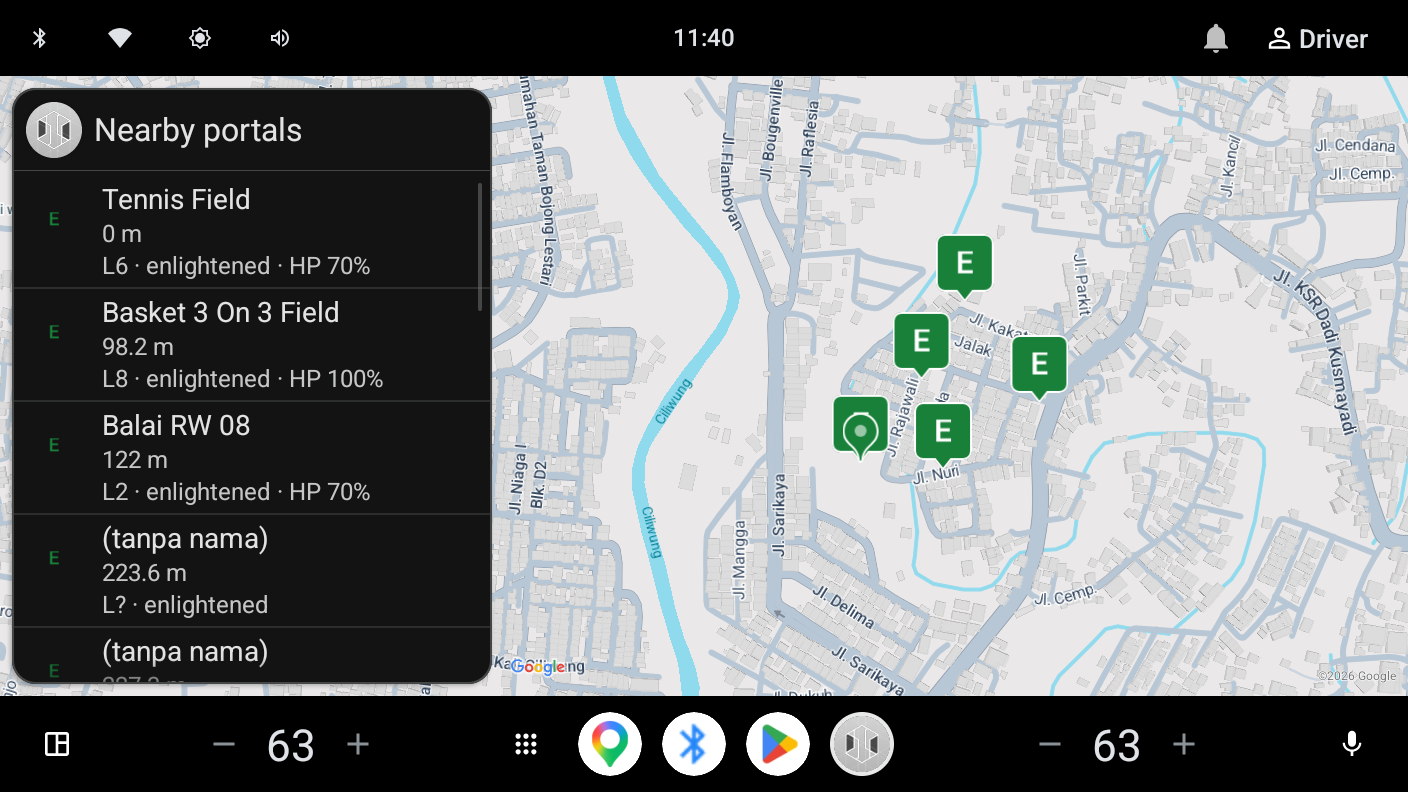
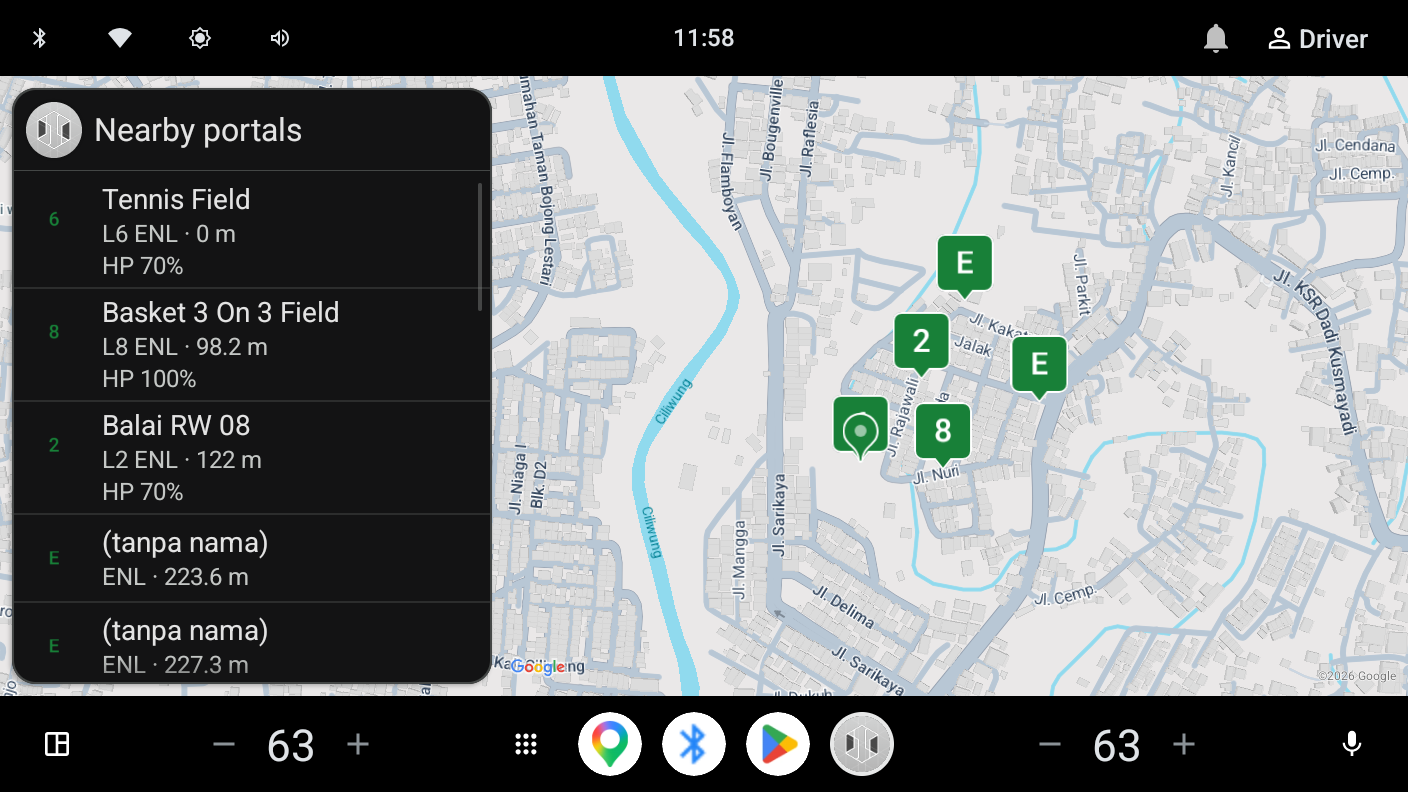
feat(car): level digit inside faction-coloured markers, concise row subtitles
Markers: the host only keeps its faction colour when the marker carries a label, so the label is
now the portal level (the number an agent reads off the map) with the faction letter as fallback,
instead of the faction initial. Verified on the AAOS emulator with real payloads: green balloons
with 8/2/E for Enlightened, blue for Resistance, white with 1 for neutral.

Rows: subtitle is now 'L8 ENL · 98.2 m' (level omitted while IITC has not resolved it), with
'HP 100%' / 'TARGET' only on a second line, so neutral rows drop to two lines instead of three.
Unresolved portal names show 'Unknown Portal' (the contract now lives in the parser; the userscript
sends an empty name instead of inventing one).

Three host constraints found while doing this, all documented in docs/notes/aaos-real-data-demo.md:
- setIcon on a marker => white balloon + black silhouette, colour and level lost. Dropped the bitmap
  badge approach and deleted PortalBadge.kt / ic_portal_neutral.xml with it.
- Rows can't have both a marker and an image (IllegalArgumentException) => no row icons while the
  map markers are kept.
- CarColor.createCustom() is host-optional and ignored once a label is set.

Tests: 20 JVM + 8 JS green.

diff --git a/mobile/app/src/main/java/org/exarhteam/iitc_mobile/car/PortalMapScreen.kt b/mobile/app/src/main/java/org/exarhteam/iitc_mobile/car/PortalMapScreen.kt
@@ -9,7 +9,6 @@ import androidx.car.app.CarContext
 import androidx.car.app.Screen
 import androidx.car.app.model.Action
 import androidx.car.app.model.CarColor
-import androidx.car.app.model.CarIcon
 import androidx.car.app.model.CarLocation
 import androidx.car.app.model.CarText
 import androidx.car.app.model.Distance
@@ -22,12 +21,11 @@ import androidx.car.app.model.PlaceListMapTemplate
 import androidx.car.app.model.PlaceMarker
 import androidx.car.app.model.Row
 import androidx.car.app.model.Template
-import androidx.core.graphics.drawable.IconCompat
 import androidx.lifecycle.DefaultLifecycleObserver
 import androidx.lifecycle.LifecycleOwner
 import androidx.lifecycle.lifecycleScope
 import kotlinx.coroutines.launch
-import org.exarhteam.iitc_mobile.R
+import java.util.Locale
 
 /**
  * Portal map screen on Android Auto (driving mode).
@@ -78,22 +76,15 @@ class PortalMapScreen(carContext: CarContext) : Screen(carContext) {
             shown.forEach { portal ->
                 val distanceM = Geo.distanceMeters(ref.first, ref.second, portal.lat, portal.lng)
 
-                // The portal name is the TITLE (plain text) and the DistanceSpan goes on the first text row.
-                // Previously the span was set on the title and the host rendered the distance as the title —
-                // as a result the portal name vanished from the car screen (found while testing on the AAOS emulator).
-                val distanceText = SpannableString("${distanceM.toInt()} m")
-                distanceText.setSpan(
-                    DistanceSpan.create(Distance.create(distanceM, Distance.UNIT_METERS)),
-                    0,
-                    distanceText.length,
-                    Spanned.SPAN_EXCLUSIVE_EXCLUSIVE
-                )
-
+                // Title = portal name; the distance span lives in the subtitle, never in the title (the
+                // host replaces the span with its own formatted distance and would eat the name).
+                // No setImage() here: the host refuses "Rows can't have both a marker and an image",
+                // and the marker is what makes the map readable — the badge rides inside it instead.
                 addItem(
                     Row.Builder()
                         .setTitle(portal.name)
-                        .addText(CarText.create(distanceText))
-                        .addText(textFor(portal, isTarget = portal.guid in targets))
+                        .addText(subtitleFor(portal, distanceM))
+                        .apply { extraLine(portal, isTarget = portal.guid in targets)?.let { addText(it) } }
                         .setMetadata(Metadata.Builder().setPlace(toPlace(portal)).build())
                         .build()
                 )
@@ -121,23 +112,20 @@ class PortalMapScreen(carContext: CarContext) : Screen(carContext) {
         else snapshot.portals.first().lat to snapshot.portals.first().lng
     }
 
-    private fun toPlace(portal: Portal): Place {
-        val marker = PlaceMarker.Builder().setColor(colorFor(portal.faction))
-        if (portal.faction == Faction.NEUTRAL || portal.faction == Faction.UNKNOWN) {
-            // Minimal marker. Without a label the host still draws a full balloon and puts the list
-            // index in it, so neutral portals get the smallest marker the API offers instead: a dot.
-            marker.setIcon(
-                CarIcon.Builder(IconCompat.createWithResource(carContext, R.drawable.ic_portal_neutral)).build(),
-                PlaceMarker.TYPE_ICON,
+    private fun toPlace(portal: Portal): Place =
+        Place.Builder(CarLocation.create(portal.lat, portal.lng))
+            .setMarker(
+                PlaceMarker.Builder()
+                    // Colour + LABEL, never an icon: with an icon the host draws a plain white balloon
+                    // and masks the bitmap to a black silhouette, so both the faction colour and the
+                    // level would be lost (verified on the AAOS emulator).
+                    .setColor(colorFor(portal.faction))
+                    // Level inside the balloon — the number an agent actually reads. Falls back to the
+                    // faction letter while IITC has not resolved the level yet.
+                    .setLabel(if (portal.level > 0) portal.level.toString() else portal.faction.code)
+                    .build()
             )
-        } else {
-            // Faction portals keep the letter: colour + letter is what tells you whose area this is.
-            marker.setLabel(portal.faction.code)
-        }
-        return Place.Builder(CarLocation.create(portal.lat, portal.lng))
-            .setMarker(marker.build())
             .build()
-    }
 
     private fun colorFor(faction: Faction): CarColor = when (faction) {
         Faction.RESISTANCE -> CarColor.BLUE
@@ -147,18 +135,35 @@ class PortalMapScreen(carContext: CarContext) : Screen(carContext) {
         Faction.UNKNOWN -> CarColor.DEFAULT
     }
 
-    private fun textFor(portal: Portal, isTarget: Boolean): String {
-        val level = if (portal.level > 0) "L${portal.level}" else "L?"
-        // HP is only relevant for portals owned by a faction; neutral portals are always 0% and that is just noise.
-        val hp = portal.health
-        val health = if (hp != null && hp > 0 && portal.faction != Faction.NEUTRAL && portal.faction != Faction.UNKNOWN) {
-            " · HP $hp%"
-        } else {
-            ""
-        }
-        val mark = if (isTarget) " · TARGET" else ""
-        return "$level · ${portal.faction.name.lowercase()}$health$mark"
+    /** "L7 RES · 95 m" — the host swaps the distance span for its own localised rendering. */
+    private fun subtitleFor(portal: Portal, distanceM: Double): CarText {
+        val prefix = "${portal.levelTag}${portal.faction.tag} · "
+        val text = SpannableString(prefix + formatDistance(distanceM))
+        text.setSpan(
+            DistanceSpan.create(Distance.create(distanceM, Distance.UNIT_METERS)),
+            prefix.length,
+            text.length,
+            Spanned.SPAN_EXCLUSIVE_EXCLUSIVE
+        )
+        return CarText.create(text)
     }
+
+    /**
+     * Second text line, only when there is something worth saying: neutral portals have neither HP
+     * nor a target flag, so their rows stay two lines instead of three.
+     */
+    private fun extraLine(portal: Portal, isTarget: Boolean): String? {
+        val parts = ArrayList<String>(2)
+        val hp = portal.health
+        if (hp != null && hp > 0 && portal.faction != Faction.NEUTRAL && portal.faction != Faction.UNKNOWN) {
+            parts.add("HP $hp%")
+        }
+        if (isTarget) parts.add("TARGET")
+        return parts.joinToString(" · ").ifEmpty { null }
+    }
+
+    private fun formatDistance(meters: Double): String =
+        if (meters < 1000) "${meters.toInt()} m" else String.format(Locale.US, "%.1f km", meters / 1000)
 
     private fun titleFor(snapshot: PortalSnapshot): String =
         if (snapshot.isStale()) {

diff --git a/mobile/app/src/main/java/org/exarhteam/iitc_mobile/car/Portal.kt b/mobile/app/src/main/java/org/exarhteam/iitc_mobile/car/Portal.kt
@@ -8,13 +8,16 @@ package org.exarhteam.iitc_mobile.car
  * Every class in this file is pure (no Android dependency) so it can be unit tested on the JVM.
  */
 
-/** Portal faction; the raw code comes from IITC data ('R'/'E'/'M'/'N'). */
-enum class Faction(val code: String) {
-    RESISTANCE("R"),
-    ENLIGHTENED("E"),
-    MACHINA("M"),
-    NEUTRAL("N"),
-    UNKNOWN("?");
+/**
+ * Portal faction. [code] is the raw IITC value ('R'/'E'/'M'/'N'); [tag] is the short label the
+ * car screen shows ("RES", "ENL", ...).
+ */
+enum class Faction(val code: String, val tag: String) {
+    RESISTANCE("R", "RES"),
+    ENLIGHTENED("E", "ENL"),
+    MACHINA("M", "MAC"),
+    NEUTRAL("N", "NEU"),
+    UNKNOWN("?", "UNK");
 
     companion object {
         fun fromCode(code: String?): Faction = when (code?.trim()?.uppercase()) {
@@ -50,6 +53,9 @@ data class BoundingBox(
     }
 }
 
+/** Shown when IITC has not resolved a portal name yet, which is normal right after a map move. */
+const val UNKNOWN_PORTAL_NAME = "Unknown Portal"
+
 data class Portal(
     val guid: String,
     val name: String,
@@ -58,7 +64,10 @@ data class Portal(
     val faction: Faction,
     val level: Int,
     val health: Int?,
-)
+) {
+    /** "L7 " once IITC has reported a level, empty while it has not. */
+    val levelTag: String get() = if (level > 0) "L$level " else ""
+}
 
 /**
  * A single data push from the IITC WebView.

diff --git a/mobile/app/src/test/java/org/exarhteam/iitc_mobile/car/PortalBridgeTest.kt b/mobile/app/src/test/java/org/exarhteam/iitc_mobile/car/PortalBridgeTest.kt
@@ -155,6 +155,19 @@ class PortalBridgeTest {
         assertNull(PortalBridge.lastRejection.value)
     }
 
+    @Test
+    fun `names, level tags and faction tags fall back cleanly while IITC resolves data`() {
+        assertEquals("RES", Faction.RESISTANCE.tag)
+        assertEquals("", Portal("g", "x", -6.2, 106.8, Faction.NEUTRAL, 0, null).levelTag)
+
+        val unresolved = PortalJsonParser.parse(
+            """{"v":1,"portals":[{"g":"a","lat":-6.2,"lng":106.8,"t":"E","l":7}]}"""
+        ) as ParseResult.Success
+        val portal = unresolved.snapshot.portals.single()
+        assertEquals(UNKNOWN_PORTAL_NAME, portal.name)
+        assertEquals("L7 ", portal.levelTag)
+    }
+
     private fun portal(guid: String, lat: Double, lng: Double) = Portal(
         guid = guid,
         name = guid,

diff --git a/mobile/app/src/main/java/org/exarhteam/iitc_mobile/car/PortalJsonParser.kt b/mobile/app/src/main/java/org/exarhteam/iitc_mobile/car/PortalJsonParser.kt
@@ -74,7 +74,7 @@ object PortalJsonParser {
 
         return Portal(
             guid = guid,
-            name = obj.optString("n", "(unnamed)"),
+            name = obj.optString("n", "").ifBlank { UNKNOWN_PORTAL_NAME },
             lat = lat,
             lng = lng,
             faction = Faction.fromCode(obj.optString("t", "")),

diff --git a/mobile/app/src/main/assets/iitc-auto-bridge.js b/mobile/app/src/main/assets/iitc-auto-bridge.js
@@ -73,7 +73,7 @@
 
         return {
             g: String(guid),
-            n: (data && data.title) ? String(data.title) : '(unnamed)',
+            n: (data && data.title) ? String(data.title) : '',
             lat: lat,
             lng: lng,
             t: factionCode(data && data.team),

diff --git a/docs/notes/aaos-real-data-demo.md b/docs/notes/aaos-real-data-demo.md
@@ -60,21 +60,27 @@ rules are now explicit in `PortalMapScreen.toPlace`:
 
 | Faction | Marker | Status |
 |---|---|---|
-| Enlightened | green balloon, white `E` | verified: a cluster of 5 Enlightened portals, all green with `E` |
-| Resistance | blue balloon, white `R` | verified: 4 blue `R` markers in a Resistance cluster |
-| Machina | red balloon, white `M` | same code path (`CarColor.RED`), no screenshot of a red cluster yet |
-| Neutral / unknown | white balloon with a small dark dot, no letter | a letter — or the host's fallback row index — is as loud as a faction pin |
+| Enlightened | green balloon, white **level digit** (`E` while the level is unresolved) | verified: green balloons with `8`, `2`, `E` on an Enlightened cluster |
+| Resistance | blue balloon, same rule | verified |
+| Machina | red balloon, same rule | same code path (`CarColor.RED`), no screenshot of a red cluster yet |
+| Neutral / unknown | white balloon, same rule | verified: white balloons with `1` on a neutral cluster |
 
-What the host decides, learned the hard way:
+What the host decides, learned the hard way (each point cost a rebuild):
 
 - Every marker attached to a list row is drawn as a **full balloon**, and its size is not ours to set.
-  With a label the host puts the label in the balloon; without one it puts the row index; with an
-  icon it puts the icon.
-- `PlaceMarker.TYPE_IMAGE` — tried as a route to a bare dot — makes the AAOS host throw and the car
-  app disappears from the driving screen. The neutral marker is therefore back on `TYPE_ICON`.
-- So the smallest a neutral portal can look here is a dot inside a balloon. If that is still too
-  loud, the next step is to drop neutral rows from the map metadata and keep them in the list only:
-  one line in `toPlace`.
+- **Colour + label is the only combination that works.** With `setIcon` the host draws a *white*
+  balloon and masks our bitmap down to a black silhouette — the faction colour and the level both
+  disappear. A bitmap badge (`PortalBadge.kt`) was written, tested and then deleted for this reason.
+- `PlaceMarker.TYPE_IMAGE` makes the AAOS host throw and the car app disappears from the screen.
+- **A row cannot have both a marker and an image:**
+  `java.lang.IllegalArgumentException: Rows can't have both a marker and an image`. So the row icon
+  from the "coloured dot in the list" idea is impossible while the map marker is kept — and the
+  marker is the part that makes the map readable, so the marker wins and the list stays text-only.
+- `CarColor.createCustom()` exists but is host-optional and is ignored once a label is set; the host
+  paints its own palette (blue/green/red), so Ingress' exact hex values are not reachable on AAOS.
+- The label is one character in practice: a level digit, or the faction letter as fallback.
+- Subtitle text that works: `L8 ENL · 98.2 m` (the `DistanceSpan` is swapped for the host's own
+  formatting), with `HP 100%` / `TARGET` only on a second line when there is something to say.
 
 Evidence: `img/aaos-markers-enlightened.png`, `img/aaos-markers-resistance.png` and
 `img/aaos-markers-neutral.png`. Each one was made from the real payload of the author's account with
